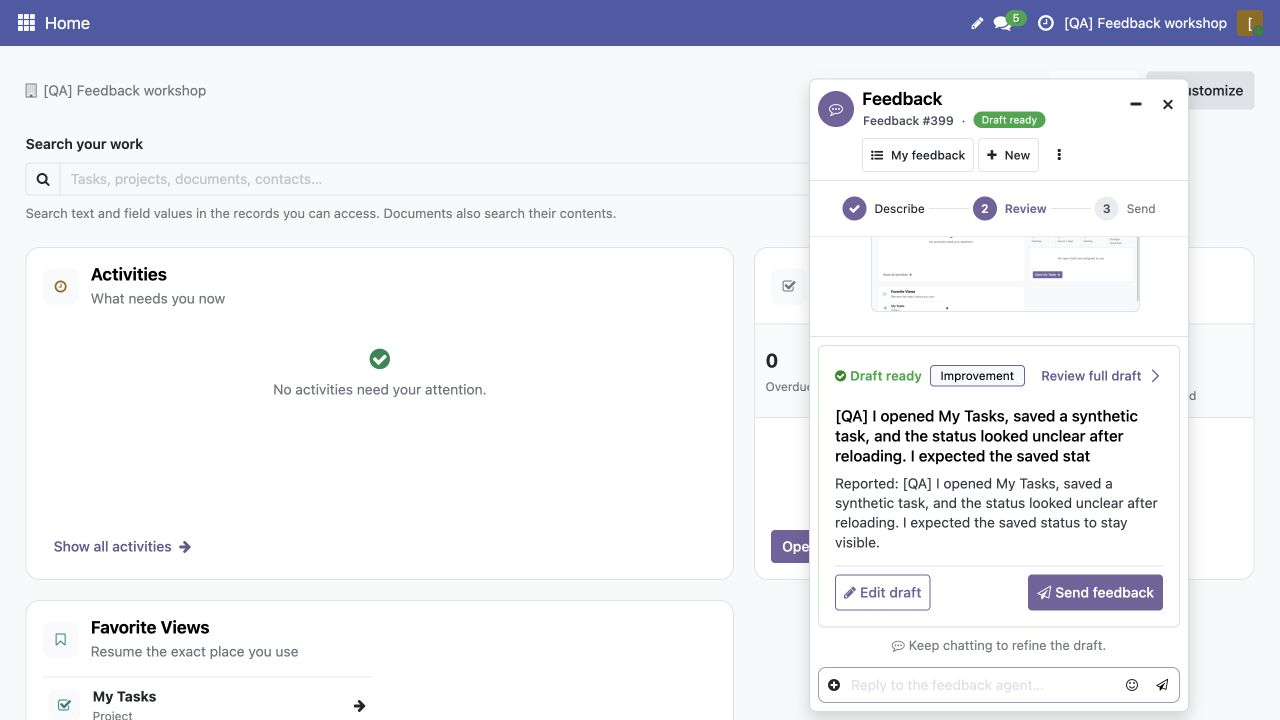
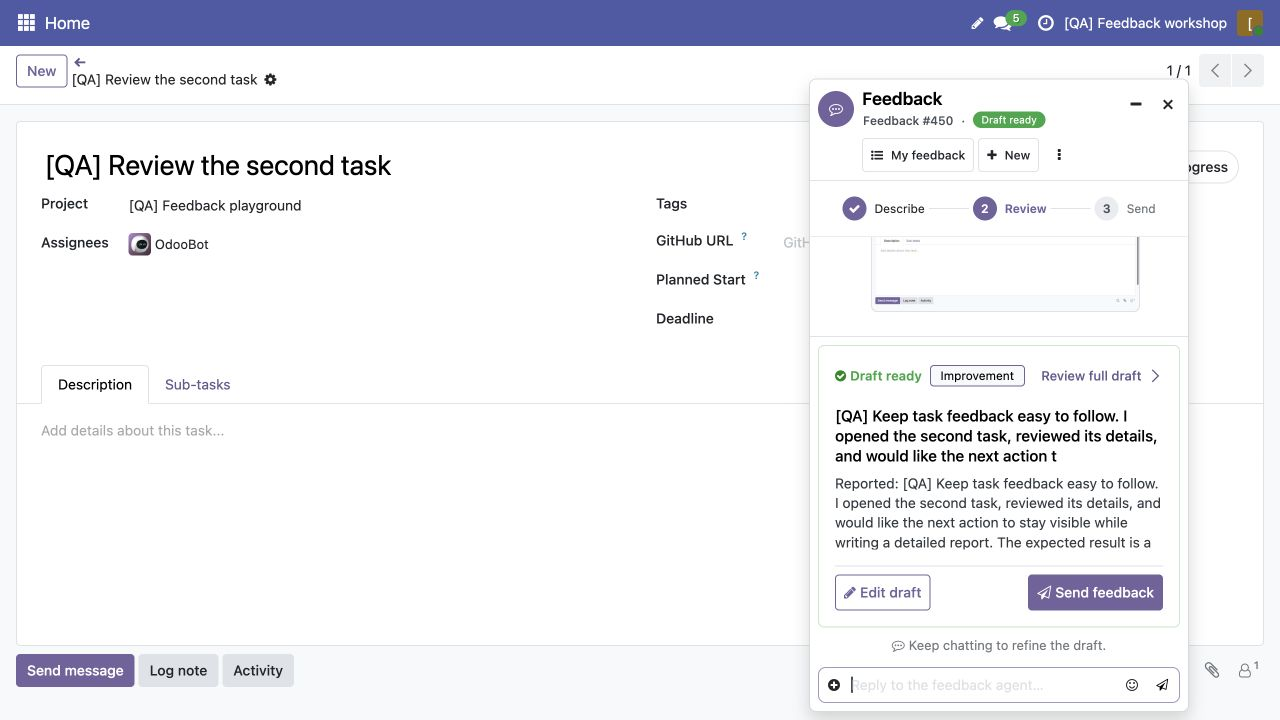
test(feedback): publish final qualified browser captures
Replace intermediate captures with eleven screenshots of the final tested product source. Record the capture date, synthetic ordinary-user fixtures, offline replies and viewport limits. Both implementation owner and delivery lead inspected the exact pixels and metadata before publication.

Validation:
- All eleven SHA-256 values match the lead-approved private manifest; PNGs contain only IHDR, IDAT and IEND with no trailing data. Desktop and mobile native journeys exercised final product revision 1ac4ae09b67c10167a2b16f7a63b762eade5031b.

AI-generated commit

diff --git a/docs/product/screenshots/feedback-capture/README.md b/docs/product/screenshots/feedback-capture/README.md
@@ -1,6 +1,6 @@
 # Quick feedback capture QA
 
-Captured on 15 October 2026, 13:38–13:42 Europe/Paris, in the Codex in-app browser against tested combined product revision `3ea1d10ef590bc4a5ca790e6b726edeb6e57720e`. These captures replace the earlier 13 October illustrations.
+Captured on 15 October 2026, 14:25–14:30 Europe/Paris, in the Codex in-app browser against tested combined product revision `1ac4ae09b67c10167a2b16f7a63b762eade5031b`. These captures replace the earlier 13 October and intermediate 15 October illustrations.
 
 The disposable local fixture uses a non-administrator reporter, synthetic companies and reports, and fixed local agent replies. No provider or MCP credentials were configured. Desktop viewport: 1280 × 720. Mobile viewport: 390 × 844.
 
@@ -8,7 +8,7 @@ The disposable local fixture uses a non-administrator reporter, synthetic compan
 |---|---|
 | palette-desktop.png | Feedback is the first selected native palette suggestion. |
 | draft-desktop.png | Editable report, pasted image, sharing choices and compact preview controls. |
-| modal-desktop.png | Feedback remains usable above an existing Preferences dialog. |
+| modal-desktop.png | A folded report is reopened above Preferences and accepts real pointer and keyboard input. |
 | ready-desktop.png | Review before submitting the desktop report. |
 | sent-desktop.png | Desktop report reaches Triage. |
 | draft-mobile.png | Narrow-screen report with Page details declined and sharing controls before the preview. |

diff --git a/docs/product/screenshots/notification-productivity/README.md b/docs/product/screenshots/notification-productivity/README.md
@@ -1,8 +1,8 @@
 # Notification productivity QA
 
-Captured 15 October 2026, 13:40–13:41 Europe/Paris, in the Codex in-app browser
-against tested combined product source `3ea1d10ef590bc4a5ca790e6b726edeb6e57720e`,
-after two preservation-checked upgrades. These replace the 14 October captures.
+Captured 15 October 2026, 14:28–14:29 Europe/Paris, in the Codex in-app browser
+against tested combined product source `1ac4ae09b67c10167a2b16f7a63b762eade5031b`,
+after two preservation-checked upgrades. These replace the 14 October and intermediate 15 October captures.
 The reviewer is a synthetic non-admin internal user; all contacts, tasks and
 messages are disposable fixtures. Viewport: 1280 × 720.
 
